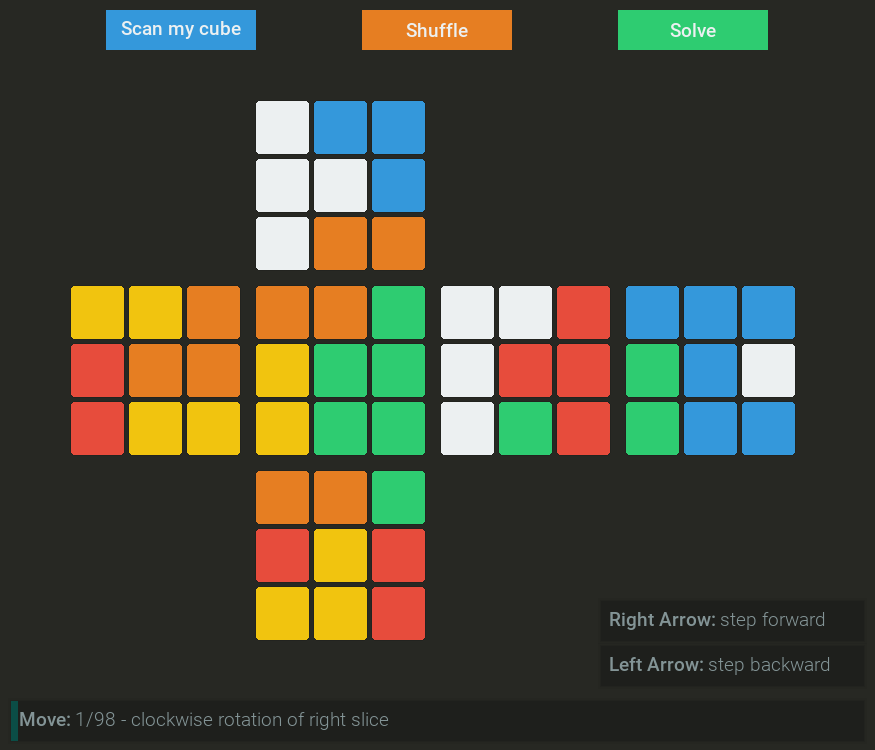
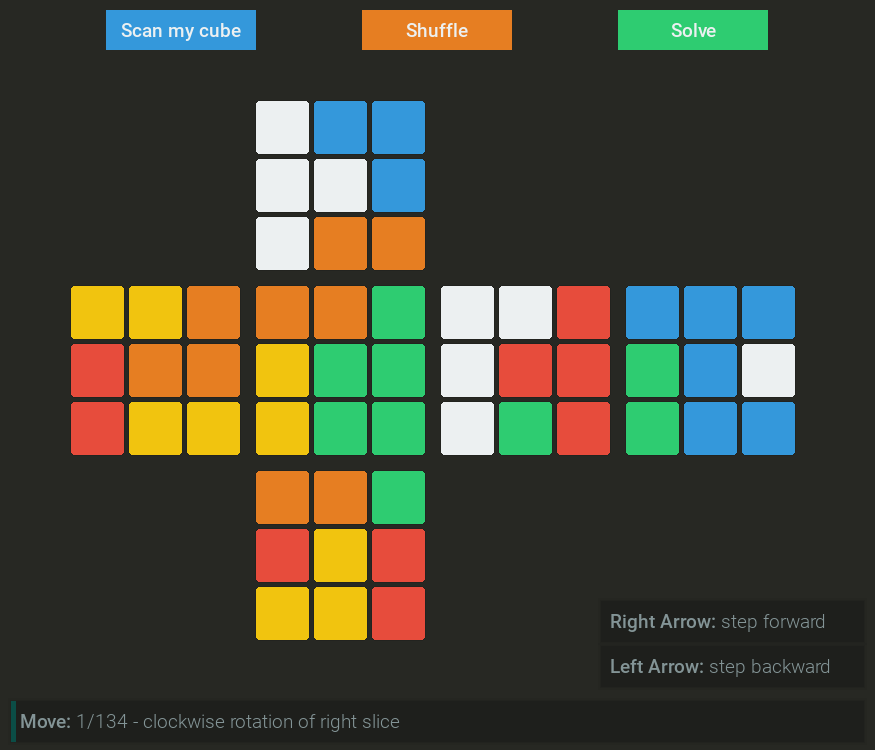
fix(gui): replace pygame.freetype with pygame.font to prevent Python 3.14 segfault (#11)

diff --git a/rubix_gui.py b/rubix_gui.py
@@ -1,5 +1,5 @@
 import pygame
-import pygame.freetype
+import pygame.font
 import numpy as np
 from rubix import solved_cube, apply_move_to_cube, shuffle, solve, moves, color_names, describe_move, is_cubelet_solved, NUM_CUBELETS
 
@@ -14,20 +14,23 @@ def init_display(surface=None):
     global screen, font_regular, font_bold, MAX_TEXT_HEIGHT
     if surface is not None:
         screen = surface
-    elif screen is None:
+    elif screen is None or not pygame.display.get_init():
         pygame.init()
         pygame.display.set_caption("Rubik's Cube Solver")
         pygame.key.set_repeat(300, 50)  # delay, interval
         screen = pygame.display.set_mode((WIDTH, HEIGHT))
+        font_regular = None
+        font_bold = None
 
-    if font_regular is None:
+    if font_regular is None or font_bold is None or not pygame.font.get_init():
+        pygame.font.init()
         try:
-            font_regular = pygame.freetype.Font("fonts/Roboto-Light.ttf", size=TEXT_SIZE)
-            font_bold = pygame.freetype.Font("fonts/Roboto-Medium.ttf", size=TEXT_SIZE)
+            font_regular = pygame.font.Font("fonts/Roboto-Light.ttf", TEXT_SIZE)
+            font_bold = pygame.font.Font("fonts/Roboto-Medium.ttf", TEXT_SIZE)
         except Exception:
-            font_regular = pygame.freetype.SysFont("Arial", size=TEXT_SIZE)
-            font_bold = font_regular
-        MAX_TEXT_HEIGHT = font_bold.get_sized_height(TEXT_SIZE)
+            font_regular = pygame.font.SysFont("Arial", TEXT_SIZE)
+            font_bold = pygame.font.SysFont("Arial", TEXT_SIZE, bold=True)
+        MAX_TEXT_HEIGHT = font_bold.get_height()
     return screen
 
 COLORS = {
@@ -129,14 +132,15 @@ def draw_cube_static(cube): return draw_cube_animated(cube, cube, 1)
 
 def draw_text_bubble(text, x, y, width, progress=None, bold_part=None):
     global screen
-    if screen is None or font_bold is None:
+    if screen is None or font_regular is None or font_bold is None or not pygame.font.get_init():
         init_display()
     padding_x = 10
     rect_height = MAX_TEXT_HEIGHT + 20  # Fixed height based on max possible text height plus some padding
 
     # Pre-render both bold and regular parts to ensure consistent spacing
-    bold_surface, _ = font_bold.render(bold_part or "", TEXT_COLOR)
-    regular_surface, _ = font_regular.render(text[len(bold_part or ""):], TEXT_COLOR)
+    bold_prefix = bold_part if bold_part and text.startswith(bold_part) else ""
+    bold_surface = font_bold.render(bold_prefix, True, TEXT_COLOR)
+    regular_surface = font_regular.render(text[len(bold_prefix):], True, TEXT_COLOR)
     
     text_width = bold_surface.get_width() + regular_surface.get_width()
     text_surface = pygame.Surface((text_width, MAX_TEXT_HEIGHT), pygame.SRCALPHA)
@@ -161,21 +165,30 @@ def draw_text_bubble(text, x, y, width, progress=None, bold_part=None):
     pygame.draw.rect(screen, BUBBLE_BORDER, (x, y, width, rect_height), 1)
     
     # Draw text at a fixed position, centered vertically
-    text_y = y + (rect_height - MAX_TEXT_HEIGHT) // 2 + 2
+    text_y = y + (rect_height - text_surface.get_height()) // 2
     screen.blit(text_surface, (x + padding_x, text_y))
 
     return rect_height
 
 def create_button(text, x, y, width, height, color, text_color):
-    if font_bold is None:
+    if font_bold is None or not pygame.font.get_init():
         init_display()
     button_surface = pygame.Surface((width, height))
     button_surface.fill(color)
-    text_surface, _ = font_bold.render(text, text_color)
+    text_surface = font_bold.render(text, True, text_color)
     text_rect = text_surface.get_rect(center=(width/2, height/2))
     button_surface.blit(text_surface, text_rect)
     button_rect = pygame.Rect(x, y, width, height)
     return (button_surface, button_rect)
+
+def create_header_buttons():
+    button_width, button_height = 150, 40
+    button_y = 10
+    button_spacing = (WIDTH - 3 * button_width) / 4
+    scan_btn = create_button("Scan my cube", button_spacing, button_y, button_width, button_height, COLORS["BLUE"], WHITE)
+    shuffle_btn = create_button("Shuffle", 2 * button_spacing + button_width, button_y, button_width, button_height, COLORS["ORANGE"], WHITE)
+    solve_btn = create_button("Solve", 3 * button_spacing + 2 * button_width, button_y, button_width, button_height, COLORS["GREEN"], WHITE)
+    return scan_btn, shuffle_btn, solve_btn
 
 def render_frame_to_image(cube, output_path="img/gui-preview.png", solution=None, move_index=0, current_move=None):
     scr = init_display()
@@ -183,13 +196,7 @@ def render_frame_to_image(cube, output_path="img/gui-preview.png", solution=None
     draw_cube_static(cube)
 
     # Draw header buttons
-    button_width, button_height = 150, 40
-    button_y = 10
-    button_spacing = (WIDTH - 3 * button_width) / 4
-    scan_btn = create_button("Scan my cube", button_spacing, button_y, button_width, button_height, COLORS["BLUE"], WHITE)
-    shuffle_btn = create_button("Shuffle", 2 * button_spacing + button_width, button_y, button_width, button_height, COLORS["ORANGE"], WHITE)
-    solve_btn = create_button("Solve", 3 * button_spacing + 2 * button_width, button_y, button_width, button_height, COLORS["GREEN"], WHITE)
-
+    scan_btn, shuffle_btn, solve_btn = create_header_buttons()
     scr.blit(scan_btn[0], scan_btn[1])
     scr.blit(shuffle_btn[0], shuffle_btn[1])
     scr.blit(solve_btn[0], solve_btn[1])
@@ -236,6 +243,7 @@ def report_solve_progress(cube):
     pygame.display.flip()
 
 def main():
+    global screen, font_regular, font_bold
     init_display()
     cube = shuffle(solved_cube, iterations=20)
     original_cube = cube
@@ -253,12 +261,7 @@ def main():
     key_hold_time = 0
 
     # Create buttons
-    button_width, button_height = 150, 40
-    button_y = 10
-    button_spacing = (WIDTH - 3 * button_width) / 4
-    scan_button = create_button("Scan my cube", button_spacing, button_y, button_width, button_height, COLORS["BLUE"], WHITE)
-    shuffle_button = create_button("Shuffle", 2 * button_spacing + button_width, button_y, button_width, button_height, COLORS["ORANGE"], WHITE)
-    solve_button = create_button("Solve", 3 * button_spacing + 2 * button_width, button_y, button_width, button_height, COLORS["GREEN"], WHITE)
+    scan_button, shuffle_button, solve_button = create_header_buttons()
 
     while running:
         dt = clock.tick(60) / 1000.0  # Delta time in seconds
@@ -335,6 +338,9 @@ def main():
         pygame.display.flip()
 
     pygame.quit()
+    screen = None
+    font_regular = None
+    font_bold = None
 
 if __name__ == "__main__":
     main()

diff --git a/tests/test_rubix.py b/tests/test_rubix.py
@@ -252,6 +252,105 @@ class TestRubixCube(unittest.TestCase):
                     self.assertGreater(min_moves_to_solved(c, r), 0)
                     return
 
+    def test_headless_gui_render_with_solution(self):
+        """Verify that rubix_gui renders frames with active solution and progress info."""
+        import rubix_gui
+
+        os.environ["SDL_VIDEODRIVER"] = "dummy"
+        mock_solution = [((1, 0, 0), 1), ((0, 1, 0), -1)]
+        with tempfile.TemporaryDirectory() as tmp_dir:
+            out_path = os.path.join(tmp_dir, "preview_solution.png")
+            result = rubix_gui.render_frame_to_image(
+                solved_cube,
+                out_path,
+                solution=mock_solution,
+                move_index=1,
+                current_move=mock_solution[0],
+            )
+            self.assertEqual(result, out_path)
+            self.assertTrue(os.path.exists(out_path))
+            self.assertGreater(os.path.getsize(out_path), 0)
+
+    def test_gui_text_bubble_and_buttons(self):
+        """Verify GUI button and text bubble components render without error across edge cases."""
+        import rubix_gui
+
+        os.environ["SDL_VIDEODRIVER"] = "dummy"
+        rubix_gui.init_display()
+
+        # Button creation
+        surf, rect = rubix_gui.create_button("Test Button", 10, 20, 120, 35, (0, 0, 0), (255, 255, 255))
+        self.assertEqual(surf.get_size(), (120, 35))
+        self.assertEqual(rect.topleft, (10, 20))
+
+        # Text bubble edge cases: empty text, bold prefix, progress bar
+        h_plain = rubix_gui.draw_text_bubble("Plain text", 10, 10, 200)
+        h_bold = rubix_gui.draw_text_bubble("Prefix: remaining text", 10, 10, 200, progress=0.5, bold_part="Prefix:")
+        h_empty = rubix_gui.draw_text_bubble("", 10, 10, 200, progress=1.0)
+        self.assertGreater(h_plain, 0)
+        self.assertGreater(h_bold, 0)
+        self.assertGreater(h_empty, 0)
+
+    def test_gui_font_fallback(self):
+        """Verify font loading falls back safely to system fonts if font files cannot be loaded."""
+        from unittest.mock import patch
+        import rubix_gui
+
+        os.environ["SDL_VIDEODRIVER"] = "dummy"
+        orig_regular, orig_bold = rubix_gui.font_regular, rubix_gui.font_bold
+        orig_max_h = rubix_gui.MAX_TEXT_HEIGHT
+        try:
+            rubix_gui.font_regular = None
+            rubix_gui.font_bold = None
+            with patch("pygame.font.Font", side_effect=Exception("Simulated missing font")):
+                rubix_gui.init_display()
+                self.assertIsNotNone(rubix_gui.font_regular)
+                self.assertIsNotNone(rubix_gui.font_bold)
+                surf, _ = rubix_gui.create_button("Fallback", 0, 0, 100, 30, (0, 0, 0), (255, 255, 255))
+                self.assertEqual(surf.get_size(), (100, 30))
+        finally:
+            rubix_gui.font_regular, rubix_gui.font_bold = orig_regular, orig_bold
+            rubix_gui.MAX_TEXT_HEIGHT = orig_max_h
+
+    def test_gui_main_lifecycle(self):
+        """Verify GUI main loop initializes, creates all UI components, and exits cleanly on QUIT."""
+        import pygame
+        import rubix_gui
+
+        os.environ["SDL_VIDEODRIVER"] = "dummy"
+        pygame.init()
+        pygame.event.post(pygame.event.Event(pygame.QUIT))
+        rubix_gui.main()
+
+    def test_gui_lifecycle_reinit_after_quit(self):
+        """Verify re-initialization after pygame.quit() does not retain stale font handles or crash."""
+        import pygame
+        import rubix_gui
+
+        os.environ["SDL_VIDEODRIVER"] = "dummy"
+        rubix_gui.init_display()
+        pygame.quit()
+        # Second session: re-init and ensure font rendering and button creation succeed without segfault
+        rubix_gui.init_display()
+        surf, rect = rubix_gui.create_button("Reinit Test", 0, 0, 100, 30, (0, 0, 0), (255, 255, 255))
+        self.assertEqual(surf.get_size(), (100, 30))
+        h = rubix_gui.draw_text_bubble("Reinit Bubble", 0, 0, 200)
+        self.assertGreater(h, 0)
+
+    def test_gui_offscreen_surface_preservation(self):
+        """Verify passing a custom surface to init_display is preserved across subsequent draw calls."""
+        import pygame
+        import rubix_gui
+
+        custom_surf = pygame.Surface((rubix_gui.WIDTH, rubix_gui.HEIGHT))
+        rubix_gui.init_display(surface=custom_surf)
+        self.assertIs(rubix_gui.screen, custom_surf)
+        rubix_gui.draw_cube_static(solved_cube)
+        self.assertIs(rubix_gui.screen, custom_surf)
+        rubix_gui.draw_text_bubble("Test Offscreen", 10, 10, 200)
+        self.assertIs(rubix_gui.screen, custom_surf)
+
 
 if __name__ == "__main__":
     unittest.main()
+
